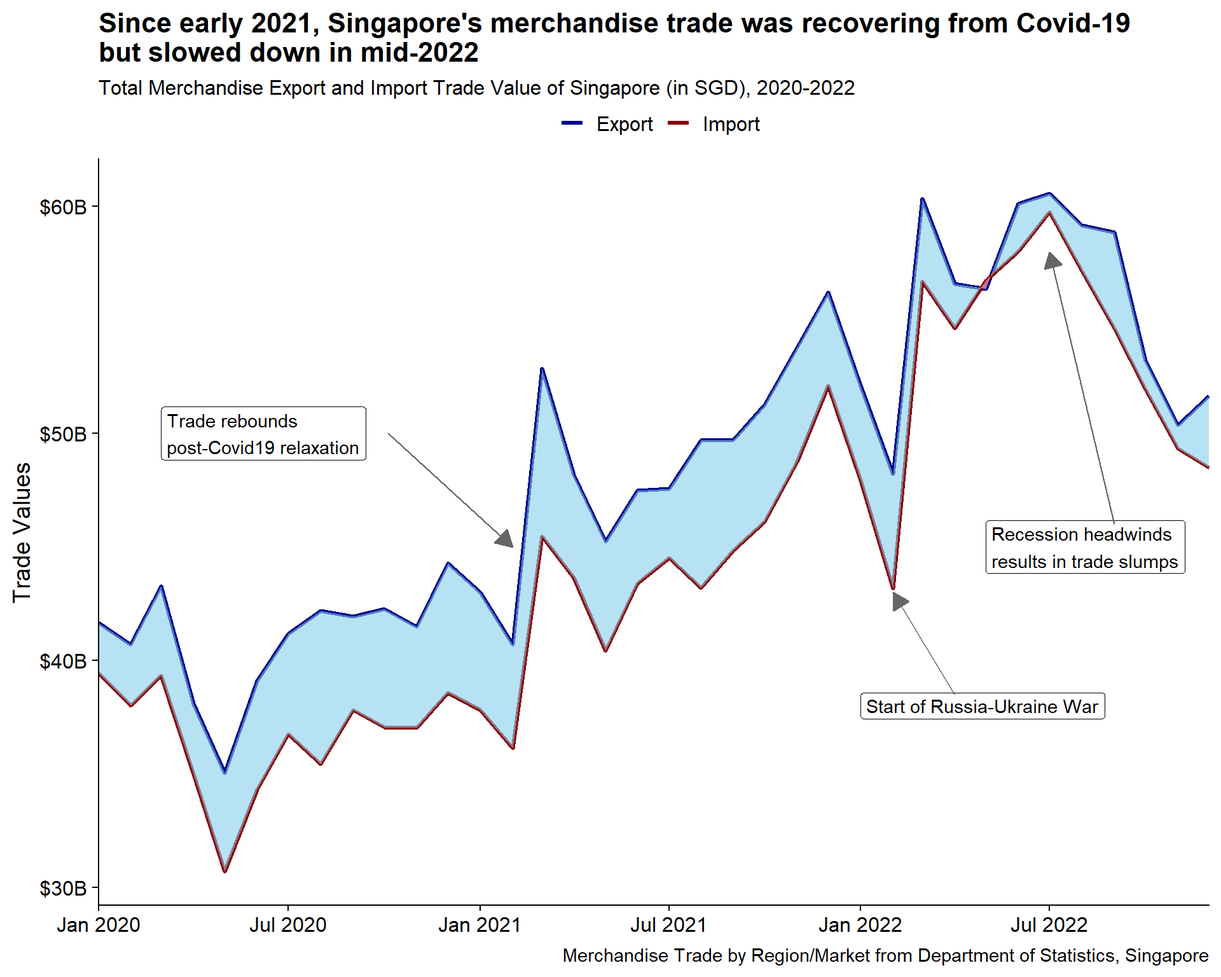
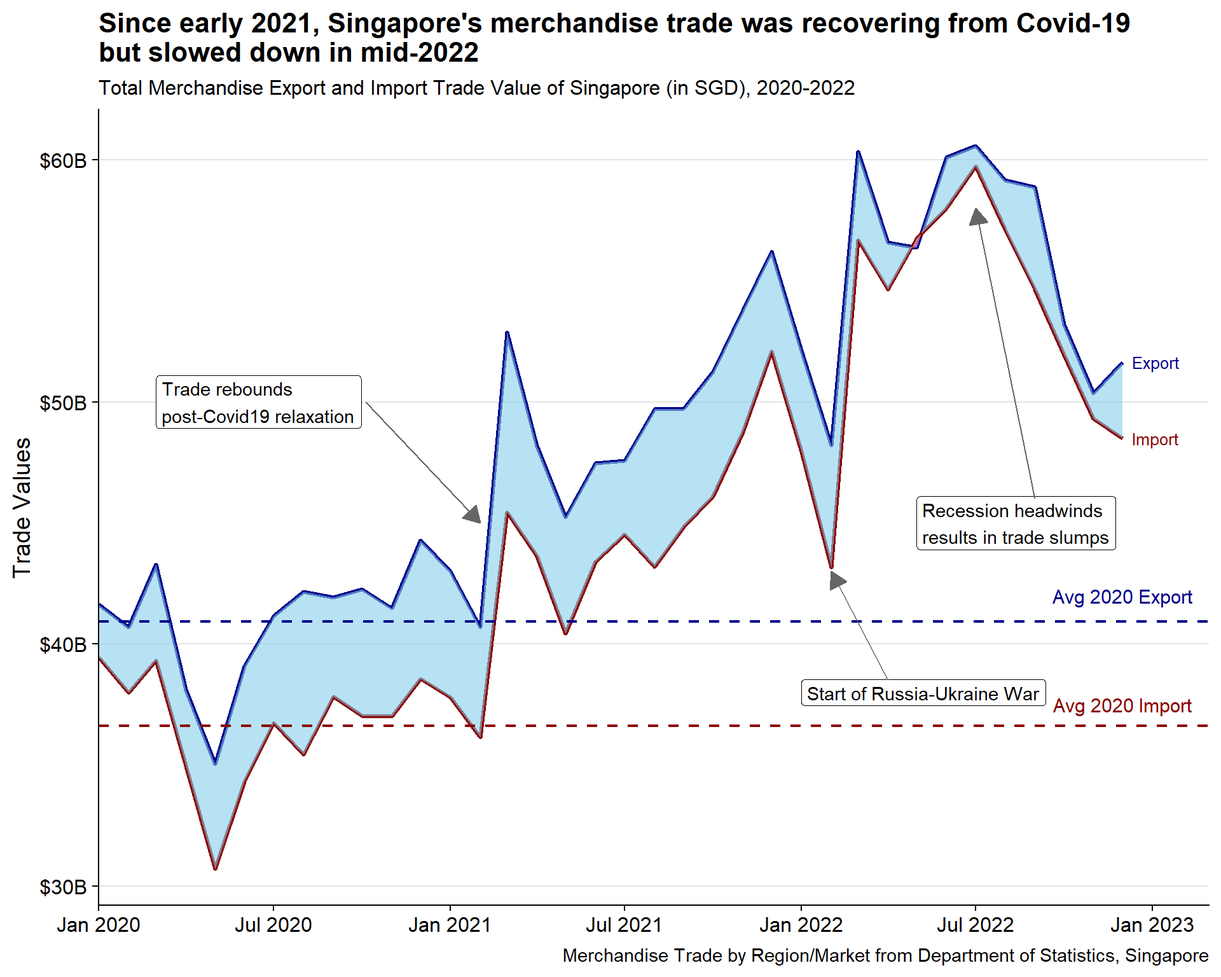
Commit after Take-home Exercise 4 draft 1

diff --git a/_site/Take-home_Ex/Take-home_Ex04/Take-home_Ex04.html b/_site/Take-home_Ex/Take-home_Ex04/Take-home_Ex04.html
@@ -367,13 +367,14 @@ code span.wa { color: #60a0b0; font-weight: bold; font-style: italic; } /* Warni
 <li><p><code>ggHoriPlot</code>:</p></li>
 <li><p><code>ggthemes</code>:</p></li>
 <li><p><code>plotly</code>: Used for creating interactive web-based graphs.</p></li>
+<li><p><code>directlabels</code>:</p></li>
 <li><p><code>ggbraid</code>: Used</p></li>
 <li><p><code>tidyverse</code>: A collection of core packages designed for data science, used extensively for data preparation and wrangling.</p>
 <p>All packages can be found within CRAN.</p></li>
 </ul>
 <div class="cell">
 <div class="sourceCode cell-code" id="cb1"><pre class="sourceCode r code-with-copy"><code class="sourceCode r"><span id="cb1-1"><a href="#cb1-1" aria-hidden="true" tabindex="-1"></a><span class="co">#Load packages</span></span>
-<span id="cb1-2"><a href="#cb1-2" aria-hidden="true" tabindex="-1"></a>pacman<span class="sc">::</span><span class="fu">p_load</span>(readxl, knitr, lubridate, ggHoriPlot, ggthemes, plotly, tidyverse)</span></code><button title="Copy to Clipboard" class="code-copy-button"><i class="bi"></i></button></pre></div>
+<span id="cb1-2"><a href="#cb1-2" aria-hidden="true" tabindex="-1"></a>pacman<span class="sc">::</span><span class="fu">p_load</span>(readxl, knitr, lubridate, ggHoriPlot, ggthemes, plotly, directlabels, tidyverse)</span></code><button title="Copy to Clipboard" class="code-copy-button"><i class="bi"></i></button></pre></div>
 </div>
 <div class="cell">
 <div class="sourceCode cell-code" id="cb2"><pre class="sourceCode r code-with-copy"><code class="sourceCode r"><span id="cb2-1"><a href="#cb2-1" aria-hidden="true" tabindex="-1"></a>remotes<span class="sc">::</span><span class="fu">install_github</span>(<span class="st">"nsgrantham/ggbraid"</span>)</span>
@@ -1509,108 +1510,157 @@ code span.wa { color: #60a0b0; font-weight: bold; font-style: italic; } /* Warni
 <details>
 <summary>Show the code</summary>
 <div class="sourceCode cell-code" id="cb16"><pre class="sourceCode r code-with-copy"><code class="sourceCode r"><span id="cb16-1"><a href="#cb16-1" aria-hidden="true" tabindex="-1"></a>totalsgtrade <span class="ot">&lt;-</span> sgtrade_cln <span class="sc">|&gt;</span> </span>
-<span id="cb16-2"><a href="#cb16-2" aria-hidden="true" tabindex="-1"></a>  <span class="fu">group_by</span>(Month_Year) <span class="sc">|&gt;</span> </span>
+<span id="cb16-2"><a href="#cb16-2" aria-hidden="true" tabindex="-1"></a>  <span class="fu">group_by</span>(Month_Year, Year) <span class="sc">|&gt;</span> </span>
 <span id="cb16-3"><a href="#cb16-3" aria-hidden="true" tabindex="-1"></a>  <span class="fu">summarise</span>(<span class="at">Import =</span> <span class="fu">sum</span>(Import_SGD),</span>
 <span id="cb16-4"><a href="#cb16-4" aria-hidden="true" tabindex="-1"></a>            <span class="at">Export =</span> <span class="fu">sum</span>(Export_SGD))</span>
 <span id="cb16-5"><a href="#cb16-5" aria-hidden="true" tabindex="-1"></a></span>
 <span id="cb16-6"><a href="#cb16-6" aria-hidden="true" tabindex="-1"></a>totalsgtrade_long <span class="ot">&lt;-</span> totalsgtrade <span class="sc">|&gt;</span> </span>
-<span id="cb16-7"><a href="#cb16-7" aria-hidden="true" tabindex="-1"></a>  <span class="fu">pivot_longer</span>(<span class="at">cols =</span> <span class="sc">!</span>Month_Year,</span>
+<span id="cb16-7"><a href="#cb16-7" aria-hidden="true" tabindex="-1"></a>  <span class="fu">pivot_longer</span>(<span class="at">cols =</span> <span class="sc">!</span><span class="fu">c</span>(Month_Year, Year),</span>
 <span id="cb16-8"><a href="#cb16-8" aria-hidden="true" tabindex="-1"></a>               <span class="at">names_to =</span> <span class="st">"Type"</span>,</span>
 <span id="cb16-9"><a href="#cb16-9" aria-hidden="true" tabindex="-1"></a>               <span class="at">values_to =</span> <span class="st">"Values"</span>)</span>
-<span id="cb16-10"><a href="#cb16-10" aria-hidden="true" tabindex="-1"></a>  </span>
-<span id="cb16-11"><a href="#cb16-11" aria-hidden="true" tabindex="-1"></a><span class="fu">ggplot</span>() <span class="sc">+</span></span>
-<span id="cb16-12"><a href="#cb16-12" aria-hidden="true" tabindex="-1"></a>  <span class="fu">geom_line</span>(<span class="at">data =</span> totalsgtrade_long,</span>
-<span id="cb16-13"><a href="#cb16-13" aria-hidden="true" tabindex="-1"></a>            <span class="fu">aes</span>(<span class="at">x =</span> Month_Year,</span>
-<span id="cb16-14"><a href="#cb16-14" aria-hidden="true" tabindex="-1"></a>                <span class="at">y =</span> Values,</span>
-<span id="cb16-15"><a href="#cb16-15" aria-hidden="true" tabindex="-1"></a>                <span class="at">color =</span> Type),</span>
-<span id="cb16-16"><a href="#cb16-16" aria-hidden="true" tabindex="-1"></a>            <span class="at">size =</span> <span class="fl">1.2</span>) <span class="sc">+</span></span>
+<span id="cb16-10"><a href="#cb16-10" aria-hidden="true" tabindex="-1"></a></span>
+<span id="cb16-11"><a href="#cb16-11" aria-hidden="true" tabindex="-1"></a>avg_total_2020 <span class="ot">&lt;-</span> totalsgtrade <span class="sc">|&gt;</span> </span>
+<span id="cb16-12"><a href="#cb16-12" aria-hidden="true" tabindex="-1"></a>  <span class="fu">filter</span>(Year <span class="sc">==</span> <span class="dv">2020</span>) <span class="sc">|&gt;</span> </span>
+<span id="cb16-13"><a href="#cb16-13" aria-hidden="true" tabindex="-1"></a>  <span class="fu">group_by</span> (Year) <span class="sc">|&gt;</span> </span>
+<span id="cb16-14"><a href="#cb16-14" aria-hidden="true" tabindex="-1"></a>  <span class="fu">summarise</span>(<span class="at">import =</span> <span class="fu">mean</span>(Import),</span>
+<span id="cb16-15"><a href="#cb16-15" aria-hidden="true" tabindex="-1"></a>            <span class="at">export =</span> <span class="fu">mean</span>(Export))</span>
+<span id="cb16-16"><a href="#cb16-16" aria-hidden="true" tabindex="-1"></a></span>
 <span id="cb16-17"><a href="#cb16-17" aria-hidden="true" tabindex="-1"></a>  </span>
-<span id="cb16-18"><a href="#cb16-18" aria-hidden="true" tabindex="-1"></a>  <span class="fu">geom_braid</span>(<span class="at">data =</span> totalsgtrade,</span>
-<span id="cb16-19"><a href="#cb16-19" aria-hidden="true" tabindex="-1"></a>             <span class="fu">aes</span>(<span class="at">x =</span> Month_Year,</span>
-<span id="cb16-20"><a href="#cb16-20" aria-hidden="true" tabindex="-1"></a>                 <span class="at">ymin =</span> Import,</span>
-<span id="cb16-21"><a href="#cb16-21" aria-hidden="true" tabindex="-1"></a>                 <span class="at">ymax =</span> Export,</span>
-<span id="cb16-22"><a href="#cb16-22" aria-hidden="true" tabindex="-1"></a>                 <span class="at">fill =</span> Import <span class="sc">&lt;</span> Export),</span>
-<span id="cb16-23"><a href="#cb16-23" aria-hidden="true" tabindex="-1"></a>             <span class="at">alpha =</span> <span class="fl">0.6</span>) <span class="sc">+</span></span>
-<span id="cb16-24"><a href="#cb16-24" aria-hidden="true" tabindex="-1"></a>  </span>
-<span id="cb16-25"><a href="#cb16-25" aria-hidden="true" tabindex="-1"></a>  <span class="fu">guides</span>(<span class="at">linetype =</span> <span class="st">"none"</span>, <span class="at">fill =</span> <span class="st">"none"</span>) <span class="sc">+</span></span>
-<span id="cb16-26"><a href="#cb16-26" aria-hidden="true" tabindex="-1"></a>  </span>
-<span id="cb16-27"><a href="#cb16-27" aria-hidden="true" tabindex="-1"></a>  <span class="fu">scale_color_manual</span>(<span class="at">values =</span> <span class="fu">c</span>(<span class="st">"darkblue"</span>, <span class="st">"darkred"</span>),</span>
-<span id="cb16-28"><a href="#cb16-28" aria-hidden="true" tabindex="-1"></a>                     <span class="at">labels =</span> <span class="fu">c</span>(<span class="st">"Export"</span>, <span class="st">"Import"</span>),</span>
-<span id="cb16-29"><a href="#cb16-29" aria-hidden="true" tabindex="-1"></a>                     <span class="at">name =</span> <span class="cn">NULL</span>) <span class="sc">+</span></span>
-<span id="cb16-30"><a href="#cb16-30" aria-hidden="true" tabindex="-1"></a>  </span>
-<span id="cb16-31"><a href="#cb16-31" aria-hidden="true" tabindex="-1"></a>  <span class="fu">scale_fill_manual</span>(<span class="at">values =</span> <span class="fu">c</span>(<span class="st">"pink"</span>, <span class="st">"skyblue"</span>)) <span class="sc">+</span></span>
+<span id="cb16-18"><a href="#cb16-18" aria-hidden="true" tabindex="-1"></a><span class="fu">ggplot</span>() <span class="sc">+</span></span>
+<span id="cb16-19"><a href="#cb16-19" aria-hidden="true" tabindex="-1"></a>  <span class="fu">geom_line</span>(<span class="at">data =</span> totalsgtrade_long,</span>
+<span id="cb16-20"><a href="#cb16-20" aria-hidden="true" tabindex="-1"></a>            <span class="fu">aes</span>(<span class="at">x =</span> Month_Year,</span>
+<span id="cb16-21"><a href="#cb16-21" aria-hidden="true" tabindex="-1"></a>                <span class="at">y =</span> Values,</span>
+<span id="cb16-22"><a href="#cb16-22" aria-hidden="true" tabindex="-1"></a>                <span class="at">group =</span> Type,</span>
+<span id="cb16-23"><a href="#cb16-23" aria-hidden="true" tabindex="-1"></a>                <span class="at">color =</span> Type),</span>
+<span id="cb16-24"><a href="#cb16-24" aria-hidden="true" tabindex="-1"></a>            <span class="at">linewidth =</span> <span class="fl">1.2</span>) <span class="sc">+</span></span>
+<span id="cb16-25"><a href="#cb16-25" aria-hidden="true" tabindex="-1"></a>  </span>
+<span id="cb16-26"><a href="#cb16-26" aria-hidden="true" tabindex="-1"></a>  <span class="fu">geom_braid</span>(<span class="at">data =</span> totalsgtrade,</span>
+<span id="cb16-27"><a href="#cb16-27" aria-hidden="true" tabindex="-1"></a>             <span class="fu">aes</span>(<span class="at">x =</span> Month_Year,</span>
+<span id="cb16-28"><a href="#cb16-28" aria-hidden="true" tabindex="-1"></a>                 <span class="at">ymin =</span> Import,</span>
+<span id="cb16-29"><a href="#cb16-29" aria-hidden="true" tabindex="-1"></a>                 <span class="at">ymax =</span> Export,</span>
+<span id="cb16-30"><a href="#cb16-30" aria-hidden="true" tabindex="-1"></a>                 <span class="at">fill =</span> Import <span class="sc">&lt;</span> Export),</span>
+<span id="cb16-31"><a href="#cb16-31" aria-hidden="true" tabindex="-1"></a>             <span class="at">alpha =</span> <span class="fl">0.6</span>) <span class="sc">+</span></span>
 <span id="cb16-32"><a href="#cb16-32" aria-hidden="true" tabindex="-1"></a>  </span>
-<span id="cb16-33"><a href="#cb16-33" aria-hidden="true" tabindex="-1"></a>  <span class="fu">scale_x_date</span>(<span class="at">expand=</span><span class="fu">c</span>(<span class="dv">0</span>,<span class="dv">0</span>), </span>
-<span id="cb16-34"><a href="#cb16-34" aria-hidden="true" tabindex="-1"></a>               <span class="at">date_breaks =</span> <span class="st">"6 month"</span>,</span>
-<span id="cb16-35"><a href="#cb16-35" aria-hidden="true" tabindex="-1"></a>               <span class="at">date_labels =</span> <span class="st">"%b %Y"</span>) <span class="sc">+</span></span>
-<span id="cb16-36"><a href="#cb16-36" aria-hidden="true" tabindex="-1"></a>  </span>
-<span id="cb16-37"><a href="#cb16-37" aria-hidden="true" tabindex="-1"></a>  <span class="fu">scale_y_continuous</span>(<span class="st">"Trade Values"</span>,</span>
-<span id="cb16-38"><a href="#cb16-38" aria-hidden="true" tabindex="-1"></a>                     <span class="at">labels =</span> <span class="cf">function</span>(x){<span class="fu">paste0</span>(<span class="st">'$'</span>, <span class="fu">abs</span>(x<span class="sc">/</span><span class="dv">1000000000</span>),<span class="st">'B'</span>)}) <span class="sc">+</span></span>
-<span id="cb16-39"><a href="#cb16-39" aria-hidden="true" tabindex="-1"></a>  </span>
-<span id="cb16-40"><a href="#cb16-40" aria-hidden="true" tabindex="-1"></a>  cowplot<span class="sc">::</span><span class="fu">theme_cowplot</span>() <span class="sc">+</span></span>
+<span id="cb16-33"><a href="#cb16-33" aria-hidden="true" tabindex="-1"></a>  <span class="fu">guides</span>(<span class="at">linetype =</span> <span class="st">"none"</span>, <span class="at">fill =</span> <span class="st">"none"</span>) <span class="sc">+</span></span>
+<span id="cb16-34"><a href="#cb16-34" aria-hidden="true" tabindex="-1"></a>  </span>
+<span id="cb16-35"><a href="#cb16-35" aria-hidden="true" tabindex="-1"></a>  <span class="fu">geom_dl</span>(<span class="at">data =</span> totalsgtrade_long,</span>
+<span id="cb16-36"><a href="#cb16-36" aria-hidden="true" tabindex="-1"></a>          <span class="fu">aes</span>(<span class="at">x =</span> Month_Year,</span>
+<span id="cb16-37"><a href="#cb16-37" aria-hidden="true" tabindex="-1"></a>              <span class="at">y =</span> Values,</span>
+<span id="cb16-38"><a href="#cb16-38" aria-hidden="true" tabindex="-1"></a>              <span class="at">label =</span> Type,</span>
+<span id="cb16-39"><a href="#cb16-39" aria-hidden="true" tabindex="-1"></a>              <span class="at">color =</span> Type),</span>
+<span id="cb16-40"><a href="#cb16-40" aria-hidden="true" tabindex="-1"></a>          <span class="at">method =</span> <span class="fu">list</span>(<span class="fu">dl.trans</span>(<span class="at">x =</span> x <span class="sc">+</span> <span class="fl">0.2</span>), <span class="st">"last.points"</span>, <span class="at">cex =</span> <span class="fl">0.8</span>)) <span class="sc">+</span></span>
 <span id="cb16-41"><a href="#cb16-41" aria-hidden="true" tabindex="-1"></a>  </span>
-<span id="cb16-42"><a href="#cb16-42" aria-hidden="true" tabindex="-1"></a>  <span class="fu">theme</span>(<span class="at">axis.title.x =</span> <span class="fu">element_blank</span>(),</span>
-<span id="cb16-43"><a href="#cb16-43" aria-hidden="true" tabindex="-1"></a>        <span class="at">legend.position =</span> <span class="st">'top'</span>,</span>
-<span id="cb16-44"><a href="#cb16-44" aria-hidden="true" tabindex="-1"></a>        <span class="at">legend.justification =</span> <span class="st">'center'</span>) <span class="sc">+</span></span>
-<span id="cb16-45"><a href="#cb16-45" aria-hidden="true" tabindex="-1"></a>  </span>
-<span id="cb16-46"><a href="#cb16-46" aria-hidden="true" tabindex="-1"></a>  <span class="fu">annotate</span>(<span class="at">geom =</span> <span class="st">"label"</span>,</span>
-<span id="cb16-47"><a href="#cb16-47" aria-hidden="true" tabindex="-1"></a>           <span class="at">x =</span> <span class="fu">as.Date</span>(<span class="st">"2020-03-01"</span>),</span>
-<span id="cb16-48"><a href="#cb16-48" aria-hidden="true" tabindex="-1"></a>           <span class="at">y =</span> <span class="dv">50000000000</span>,</span>
-<span id="cb16-49"><a href="#cb16-49" aria-hidden="true" tabindex="-1"></a>           <span class="at">label =</span> <span class="st">"Trade rebounds</span><span class="sc">\n</span><span class="st">post-Covid19 relaxation"</span>,</span>
-<span id="cb16-50"><a href="#cb16-50" aria-hidden="true" tabindex="-1"></a>           <span class="at">hjust =</span> <span class="st">"left"</span>,</span>
-<span id="cb16-51"><a href="#cb16-51" aria-hidden="true" tabindex="-1"></a>           <span class="at">color =</span> <span class="st">"black"</span></span>
-<span id="cb16-52"><a href="#cb16-52" aria-hidden="true" tabindex="-1"></a>           ) <span class="sc">+</span></span>
+<span id="cb16-42"><a href="#cb16-42" aria-hidden="true" tabindex="-1"></a>  <span class="fu">geom_dl</span>(<span class="at">data =</span> totalsgtrade_long,</span>
+<span id="cb16-43"><a href="#cb16-43" aria-hidden="true" tabindex="-1"></a>          <span class="fu">aes</span>(<span class="at">x =</span> Month_Year,</span>
+<span id="cb16-44"><a href="#cb16-44" aria-hidden="true" tabindex="-1"></a>              <span class="at">y =</span> Values,</span>
+<span id="cb16-45"><a href="#cb16-45" aria-hidden="true" tabindex="-1"></a>              <span class="at">label =</span> Type,</span>
+<span id="cb16-46"><a href="#cb16-46" aria-hidden="true" tabindex="-1"></a>              <span class="at">color =</span> Type),</span>
+<span id="cb16-47"><a href="#cb16-47" aria-hidden="true" tabindex="-1"></a>          <span class="at">method =</span> <span class="fu">list</span>(<span class="fu">dl.trans</span>(<span class="at">x =</span> x <span class="sc">-</span> <span class="fl">0.2</span>), <span class="st">"first.points"</span>, <span class="at">cex =</span> <span class="fl">0.8</span>)) <span class="sc">+</span></span>
+<span id="cb16-48"><a href="#cb16-48" aria-hidden="true" tabindex="-1"></a>  </span>
+<span id="cb16-49"><a href="#cb16-49" aria-hidden="true" tabindex="-1"></a>  <span class="fu">geom_hline</span>(<span class="fu">aes</span>(<span class="at">yintercept =</span> avg_total_2020<span class="sc">$</span>export), </span>
+<span id="cb16-50"><a href="#cb16-50" aria-hidden="true" tabindex="-1"></a>             <span class="at">col=</span><span class="st">"darkblue"</span>, </span>
+<span id="cb16-51"><a href="#cb16-51" aria-hidden="true" tabindex="-1"></a>             <span class="at">linewidth=</span><span class="fl">0.8</span>,</span>
+<span id="cb16-52"><a href="#cb16-52" aria-hidden="true" tabindex="-1"></a>             <span class="at">linetype =</span> <span class="st">"dashed"</span>) <span class="sc">+</span></span>
 <span id="cb16-53"><a href="#cb16-53" aria-hidden="true" tabindex="-1"></a>  </span>
-<span id="cb16-54"><a href="#cb16-54" aria-hidden="true" tabindex="-1"></a>  <span class="fu">annotate</span>(<span class="at">geom =</span> <span class="st">"segment"</span>,</span>
-<span id="cb16-55"><a href="#cb16-55" aria-hidden="true" tabindex="-1"></a>           <span class="at">x =</span> <span class="fu">as.Date</span>(<span class="st">"2020-10-05"</span>), </span>
-<span id="cb16-56"><a href="#cb16-56" aria-hidden="true" tabindex="-1"></a>           <span class="at">y =</span> <span class="dv">50000000000</span>, </span>
-<span id="cb16-57"><a href="#cb16-57" aria-hidden="true" tabindex="-1"></a>           <span class="at">xend =</span> <span class="fu">as.Date</span>(<span class="st">"2021-02-01"</span>),  </span>
-<span id="cb16-58"><a href="#cb16-58" aria-hidden="true" tabindex="-1"></a>           <span class="at">yend =</span> <span class="dv">45000000000</span>,  </span>
-<span id="cb16-59"><a href="#cb16-59" aria-hidden="true" tabindex="-1"></a>           <span class="at">color =</span> <span class="st">"grey40"</span>,</span>
-<span id="cb16-60"><a href="#cb16-60" aria-hidden="true" tabindex="-1"></a>           <span class="at">arrow =</span> <span class="fu">arrow</span>(<span class="at">type =</span> <span class="st">"closed"</span>,</span>
-<span id="cb16-61"><a href="#cb16-61" aria-hidden="true" tabindex="-1"></a>                         <span class="at">length =</span> <span class="fu">unit</span>(<span class="fl">0.15</span>, <span class="st">"inches"</span>))</span>
-<span id="cb16-62"><a href="#cb16-62" aria-hidden="true" tabindex="-1"></a>           ) <span class="sc">+</span></span>
-<span id="cb16-63"><a href="#cb16-63" aria-hidden="true" tabindex="-1"></a>  </span>
-<span id="cb16-64"><a href="#cb16-64" aria-hidden="true" tabindex="-1"></a>  <span class="fu">annotate</span>(<span class="at">geom =</span> <span class="st">"label"</span>,</span>
-<span id="cb16-65"><a href="#cb16-65" aria-hidden="true" tabindex="-1"></a>           <span class="at">x =</span> <span class="fu">as.Date</span>(<span class="st">"2022-01-01"</span>),</span>
-<span id="cb16-66"><a href="#cb16-66" aria-hidden="true" tabindex="-1"></a>           <span class="at">y =</span> <span class="dv">38000000000</span>,</span>
-<span id="cb16-67"><a href="#cb16-67" aria-hidden="true" tabindex="-1"></a>           <span class="at">label =</span> <span class="st">"Start of Russia-Ukraine War"</span>,</span>
-<span id="cb16-68"><a href="#cb16-68" aria-hidden="true" tabindex="-1"></a>           <span class="at">hjust =</span> <span class="st">"left"</span>,</span>
-<span id="cb16-69"><a href="#cb16-69" aria-hidden="true" tabindex="-1"></a>           <span class="at">color =</span> <span class="st">"black"</span></span>
-<span id="cb16-70"><a href="#cb16-70" aria-hidden="true" tabindex="-1"></a>           ) <span class="sc">+</span></span>
-<span id="cb16-71"><a href="#cb16-71" aria-hidden="true" tabindex="-1"></a>  </span>
-<span id="cb16-72"><a href="#cb16-72" aria-hidden="true" tabindex="-1"></a>  <span class="fu">annotate</span>(<span class="at">geom =</span> <span class="st">"segment"</span>,</span>
-<span id="cb16-73"><a href="#cb16-73" aria-hidden="true" tabindex="-1"></a>           <span class="at">x =</span> <span class="fu">as.Date</span>(<span class="st">"2022-04-01"</span>), </span>
-<span id="cb16-74"><a href="#cb16-74" aria-hidden="true" tabindex="-1"></a>           <span class="at">y =</span> <span class="dv">38500000000</span>, </span>
-<span id="cb16-75"><a href="#cb16-75" aria-hidden="true" tabindex="-1"></a>           <span class="at">xend =</span> <span class="fu">as.Date</span>(<span class="st">"2022-02-01"</span>),  </span>
-<span id="cb16-76"><a href="#cb16-76" aria-hidden="true" tabindex="-1"></a>           <span class="at">yend =</span> <span class="dv">43000000000</span>,  </span>
-<span id="cb16-77"><a href="#cb16-77" aria-hidden="true" tabindex="-1"></a>           <span class="at">color =</span> <span class="st">"grey40"</span>,</span>
-<span id="cb16-78"><a href="#cb16-78" aria-hidden="true" tabindex="-1"></a>           <span class="at">arrow =</span> <span class="fu">arrow</span>(<span class="at">type =</span> <span class="st">"closed"</span>,</span>
-<span id="cb16-79"><a href="#cb16-79" aria-hidden="true" tabindex="-1"></a>                         <span class="at">length =</span> <span class="fu">unit</span>(<span class="fl">0.15</span>, <span class="st">"inches"</span>))</span>
-<span id="cb16-80"><a href="#cb16-80" aria-hidden="true" tabindex="-1"></a>           ) <span class="sc">+</span></span>
-<span id="cb16-81"><a href="#cb16-81" aria-hidden="true" tabindex="-1"></a>  </span>
-<span id="cb16-82"><a href="#cb16-82" aria-hidden="true" tabindex="-1"></a>  <span class="fu">annotate</span>(<span class="at">geom =</span> <span class="st">"label"</span>,</span>
-<span id="cb16-83"><a href="#cb16-83" aria-hidden="true" tabindex="-1"></a>           <span class="at">x =</span> <span class="fu">as.Date</span>(<span class="st">"2022-05-01"</span>),</span>
-<span id="cb16-84"><a href="#cb16-84" aria-hidden="true" tabindex="-1"></a>           <span class="at">y =</span> <span class="dv">45000000000</span>,</span>
-<span id="cb16-85"><a href="#cb16-85" aria-hidden="true" tabindex="-1"></a>           <span class="at">label =</span> <span class="st">"Recession headwinds</span><span class="sc">\n</span><span class="st">results in trade slumps"</span>,</span>
-<span id="cb16-86"><a href="#cb16-86" aria-hidden="true" tabindex="-1"></a>           <span class="at">hjust =</span> <span class="st">"left"</span>,</span>
-<span id="cb16-87"><a href="#cb16-87" aria-hidden="true" tabindex="-1"></a>           <span class="at">color =</span> <span class="st">"black"</span></span>
-<span id="cb16-88"><a href="#cb16-88" aria-hidden="true" tabindex="-1"></a>           ) <span class="sc">+</span></span>
+<span id="cb16-54"><a href="#cb16-54" aria-hidden="true" tabindex="-1"></a>  <span class="fu">annotate</span>(<span class="at">geom =</span> <span class="st">"text"</span>, </span>
+<span id="cb16-55"><a href="#cb16-55" aria-hidden="true" tabindex="-1"></a>           <span class="at">x=</span><span class="fu">as.Date</span>(<span class="st">"2022-12-01"</span>), </span>
+<span id="cb16-56"><a href="#cb16-56" aria-hidden="true" tabindex="-1"></a>           <span class="at">y=</span><span class="dv">42000000000</span>, </span>
+<span id="cb16-57"><a href="#cb16-57" aria-hidden="true" tabindex="-1"></a>           <span class="at">label=</span><span class="st">"Avg 2020 Export"</span>, </span>
+<span id="cb16-58"><a href="#cb16-58" aria-hidden="true" tabindex="-1"></a>           <span class="at">size=</span><span class="dv">4</span>, </span>
+<span id="cb16-59"><a href="#cb16-59" aria-hidden="true" tabindex="-1"></a>           <span class="at">color=</span><span class="st">"darkblue"</span>) <span class="sc">+</span></span>
+<span id="cb16-60"><a href="#cb16-60" aria-hidden="true" tabindex="-1"></a>  </span>
+<span id="cb16-61"><a href="#cb16-61" aria-hidden="true" tabindex="-1"></a>  <span class="fu">annotate</span>(<span class="at">geom =</span> <span class="st">"text"</span>, </span>
+<span id="cb16-62"><a href="#cb16-62" aria-hidden="true" tabindex="-1"></a>           <span class="at">x=</span><span class="fu">as.Date</span>(<span class="st">"2022-12-01"</span>), </span>
+<span id="cb16-63"><a href="#cb16-63" aria-hidden="true" tabindex="-1"></a>           <span class="at">y=</span><span class="dv">37500000000</span>, </span>
+<span id="cb16-64"><a href="#cb16-64" aria-hidden="true" tabindex="-1"></a>           <span class="at">label=</span><span class="st">"Avg 2020 Import"</span>, </span>
+<span id="cb16-65"><a href="#cb16-65" aria-hidden="true" tabindex="-1"></a>           <span class="at">size=</span><span class="dv">4</span>, </span>
+<span id="cb16-66"><a href="#cb16-66" aria-hidden="true" tabindex="-1"></a>           <span class="at">color=</span><span class="st">"darkred"</span>) <span class="sc">+</span></span>
+<span id="cb16-67"><a href="#cb16-67" aria-hidden="true" tabindex="-1"></a>  </span>
+<span id="cb16-68"><a href="#cb16-68" aria-hidden="true" tabindex="-1"></a>  <span class="fu">geom_hline</span>(<span class="fu">aes</span>(<span class="at">yintercept =</span> avg_total_2020<span class="sc">$</span>import), </span>
+<span id="cb16-69"><a href="#cb16-69" aria-hidden="true" tabindex="-1"></a>             <span class="at">col=</span><span class="st">"darkred"</span>, </span>
+<span id="cb16-70"><a href="#cb16-70" aria-hidden="true" tabindex="-1"></a>             <span class="at">linewidth=</span><span class="fl">0.8</span>,</span>
+<span id="cb16-71"><a href="#cb16-71" aria-hidden="true" tabindex="-1"></a>             <span class="at">linetype =</span> <span class="st">"dashed"</span>) <span class="sc">+</span></span>
+<span id="cb16-72"><a href="#cb16-72" aria-hidden="true" tabindex="-1"></a>  </span>
+<span id="cb16-73"><a href="#cb16-73" aria-hidden="true" tabindex="-1"></a>  <span class="fu">scale_color_manual</span>(<span class="at">values =</span> <span class="fu">c</span>(<span class="st">"darkblue"</span>, <span class="st">"darkred"</span>),</span>
+<span id="cb16-74"><a href="#cb16-74" aria-hidden="true" tabindex="-1"></a>                     <span class="at">labels =</span> <span class="fu">c</span>(<span class="st">"Export"</span>, <span class="st">"Import"</span>),</span>
+<span id="cb16-75"><a href="#cb16-75" aria-hidden="true" tabindex="-1"></a>                     <span class="at">name =</span> <span class="cn">NULL</span>,</span>
+<span id="cb16-76"><a href="#cb16-76" aria-hidden="true" tabindex="-1"></a>                     <span class="at">guide =</span> <span class="st">"none"</span>) <span class="sc">+</span></span>
+<span id="cb16-77"><a href="#cb16-77" aria-hidden="true" tabindex="-1"></a>  </span>
+<span id="cb16-78"><a href="#cb16-78" aria-hidden="true" tabindex="-1"></a>  <span class="fu">scale_fill_manual</span>(<span class="at">values =</span> <span class="fu">c</span>(<span class="st">"pink"</span>, <span class="st">"skyblue"</span>)) <span class="sc">+</span></span>
+<span id="cb16-79"><a href="#cb16-79" aria-hidden="true" tabindex="-1"></a>  </span>
+<span id="cb16-80"><a href="#cb16-80" aria-hidden="true" tabindex="-1"></a>  <span class="fu">scale_x_date</span>(<span class="at">expand =</span> <span class="fu">c</span>(<span class="dv">0</span>,<span class="dv">0</span>),</span>
+<span id="cb16-81"><a href="#cb16-81" aria-hidden="true" tabindex="-1"></a>               <span class="at">limits =</span> <span class="fu">c</span>(<span class="fu">as.Date</span>(<span class="st">"2020-01-01"</span>),<span class="fu">as.Date</span>(<span class="st">"2023-03-01"</span>)),</span>
+<span id="cb16-82"><a href="#cb16-82" aria-hidden="true" tabindex="-1"></a>               <span class="at">date_breaks =</span> <span class="st">"6 month"</span>,</span>
+<span id="cb16-83"><a href="#cb16-83" aria-hidden="true" tabindex="-1"></a>               <span class="at">date_labels =</span> <span class="st">"%b %Y"</span>) <span class="sc">+</span></span>
+<span id="cb16-84"><a href="#cb16-84" aria-hidden="true" tabindex="-1"></a>  </span>
+<span id="cb16-85"><a href="#cb16-85" aria-hidden="true" tabindex="-1"></a>  <span class="fu">scale_y_continuous</span>(<span class="st">"Trade Values"</span>,</span>
+<span id="cb16-86"><a href="#cb16-86" aria-hidden="true" tabindex="-1"></a>                     <span class="at">labels =</span> <span class="cf">function</span>(x){<span class="fu">paste0</span>(<span class="st">'$'</span>, <span class="fu">abs</span>(x<span class="sc">/</span><span class="dv">1000000000</span>),<span class="st">'B'</span>)}) <span class="sc">+</span></span>
+<span id="cb16-87"><a href="#cb16-87" aria-hidden="true" tabindex="-1"></a>  </span>
+<span id="cb16-88"><a href="#cb16-88" aria-hidden="true" tabindex="-1"></a>  cowplot<span class="sc">::</span><span class="fu">theme_cowplot</span>() <span class="sc">+</span></span>
 <span id="cb16-89"><a href="#cb16-89" aria-hidden="true" tabindex="-1"></a>  </span>
-<span id="cb16-90"><a href="#cb16-90" aria-hidden="true" tabindex="-1"></a>  <span class="fu">annotate</span>(<span class="at">geom =</span> <span class="st">"segment"</span>,</span>
-<span id="cb16-91"><a href="#cb16-91" aria-hidden="true" tabindex="-1"></a>           <span class="at">x =</span> <span class="fu">as.Date</span>(<span class="st">"2022-09-01"</span>), </span>
-<span id="cb16-92"><a href="#cb16-92" aria-hidden="true" tabindex="-1"></a>           <span class="at">y =</span> <span class="dv">46000000000</span>, </span>
-<span id="cb16-93"><a href="#cb16-93" aria-hidden="true" tabindex="-1"></a>           <span class="at">xend =</span> <span class="fu">as.Date</span>(<span class="st">"2022-07-01"</span>),  </span>
-<span id="cb16-94"><a href="#cb16-94" aria-hidden="true" tabindex="-1"></a>           <span class="at">yend =</span> <span class="dv">58000000000</span>,  </span>
-<span id="cb16-95"><a href="#cb16-95" aria-hidden="true" tabindex="-1"></a>           <span class="at">color =</span> <span class="st">"grey40"</span>,</span>
-<span id="cb16-96"><a href="#cb16-96" aria-hidden="true" tabindex="-1"></a>           <span class="at">arrow =</span> <span class="fu">arrow</span>(<span class="at">type =</span> <span class="st">"closed"</span>,</span>
-<span id="cb16-97"><a href="#cb16-97" aria-hidden="true" tabindex="-1"></a>                         <span class="at">length =</span> <span class="fu">unit</span>(<span class="fl">0.15</span>, <span class="st">"inches"</span>))</span>
-<span id="cb16-98"><a href="#cb16-98" aria-hidden="true" tabindex="-1"></a>           ) <span class="sc">+</span></span>
-<span id="cb16-99"><a href="#cb16-99" aria-hidden="true" tabindex="-1"></a>  </span>
-<span id="cb16-100"><a href="#cb16-100" aria-hidden="true" tabindex="-1"></a>  </span>
-<span id="cb16-101"><a href="#cb16-101" aria-hidden="true" tabindex="-1"></a>  <span class="fu">labs</span>(<span class="at">title =</span> <span class="st">"Since early 2021, Singapore's merchandise trade was recovering from Covid-19</span><span class="sc">\n</span><span class="st">but slowed down in mid-2022"</span>,</span>
-<span id="cb16-102"><a href="#cb16-102" aria-hidden="true" tabindex="-1"></a>         <span class="at">subtitle =</span> <span class="st">"Total Merchandise Export and Import Trade Value of Singapore (in SGD), 2020-2022"</span>,</span>
-<span id="cb16-103"><a href="#cb16-103" aria-hidden="true" tabindex="-1"></a>         <span class="at">caption =</span> <span class="st">"Merchandise Trade by Region/Market from Department of Statistics, Singapore"</span>) </span></code><button title="Copy to Clipboard" class="code-copy-button"><i class="bi"></i></button></pre></div>
+<span id="cb16-90"><a href="#cb16-90" aria-hidden="true" tabindex="-1"></a>  <span class="fu">theme</span>(<span class="at">axis.title.x =</span> <span class="fu">element_blank</span>(),</span>
+<span id="cb16-91"><a href="#cb16-91" aria-hidden="true" tabindex="-1"></a>        <span class="at">legend.position =</span> <span class="st">'top'</span>,</span>
+<span id="cb16-92"><a href="#cb16-92" aria-hidden="true" tabindex="-1"></a>        <span class="at">legend.justification =</span> <span class="st">'center'</span>,</span>
+<span id="cb16-93"><a href="#cb16-93" aria-hidden="true" tabindex="-1"></a>        <span class="at">panel.grid.major.y =</span> <span class="fu">element_line</span>(<span class="at">color =</span> <span class="st">"grey90"</span>, <span class="at">linetype =</span> <span class="st">"solid"</span>)) <span class="sc">+</span></span>
+<span id="cb16-94"><a href="#cb16-94" aria-hidden="true" tabindex="-1"></a>  </span>
+<span id="cb16-95"><a href="#cb16-95" aria-hidden="true" tabindex="-1"></a>  <span class="fu">annotate</span>(<span class="at">geom =</span> <span class="st">"label"</span>,</span>
+<span id="cb16-96"><a href="#cb16-96" aria-hidden="true" tabindex="-1"></a>           <span class="at">x =</span> <span class="fu">as.Date</span>(<span class="st">"2020-03-01"</span>),</span>
+<span id="cb16-97"><a href="#cb16-97" aria-hidden="true" tabindex="-1"></a>           <span class="at">y =</span> <span class="dv">50000000000</span>,</span>
+<span id="cb16-98"><a href="#cb16-98" aria-hidden="true" tabindex="-1"></a>           <span class="at">label =</span> <span class="st">"Trade rebounds</span><span class="sc">\n</span><span class="st">post-Covid19 relaxation"</span>,</span>
+<span id="cb16-99"><a href="#cb16-99" aria-hidden="true" tabindex="-1"></a>           <span class="at">hjust =</span> <span class="st">"left"</span>,</span>
+<span id="cb16-100"><a href="#cb16-100" aria-hidden="true" tabindex="-1"></a>           <span class="at">color =</span> <span class="st">"black"</span></span>
+<span id="cb16-101"><a href="#cb16-101" aria-hidden="true" tabindex="-1"></a>           ) <span class="sc">+</span></span>
+<span id="cb16-102"><a href="#cb16-102" aria-hidden="true" tabindex="-1"></a>  </span>
+<span id="cb16-103"><a href="#cb16-103" aria-hidden="true" tabindex="-1"></a>  <span class="fu">annotate</span>(<span class="at">geom =</span> <span class="st">"segment"</span>,</span>
+<span id="cb16-104"><a href="#cb16-104" aria-hidden="true" tabindex="-1"></a>           <span class="at">x =</span> <span class="fu">as.Date</span>(<span class="st">"2020-10-05"</span>), </span>
+<span id="cb16-105"><a href="#cb16-105" aria-hidden="true" tabindex="-1"></a>           <span class="at">y =</span> <span class="dv">50000000000</span>, </span>
+<span id="cb16-106"><a href="#cb16-106" aria-hidden="true" tabindex="-1"></a>           <span class="at">xend =</span> <span class="fu">as.Date</span>(<span class="st">"2021-02-01"</span>),  </span>
+<span id="cb16-107"><a href="#cb16-107" aria-hidden="true" tabindex="-1"></a>           <span class="at">yend =</span> <span class="dv">45000000000</span>,  </span>
+<span id="cb16-108"><a href="#cb16-108" aria-hidden="true" tabindex="-1"></a>           <span class="at">color =</span> <span class="st">"grey40"</span>,</span>
+<span id="cb16-109"><a href="#cb16-109" aria-hidden="true" tabindex="-1"></a>           <span class="at">arrow =</span> <span class="fu">arrow</span>(<span class="at">type =</span> <span class="st">"closed"</span>,</span>
+<span id="cb16-110"><a href="#cb16-110" aria-hidden="true" tabindex="-1"></a>                         <span class="at">length =</span> <span class="fu">unit</span>(<span class="fl">0.15</span>, <span class="st">"inches"</span>))</span>
+<span id="cb16-111"><a href="#cb16-111" aria-hidden="true" tabindex="-1"></a>           ) <span class="sc">+</span></span>
+<span id="cb16-112"><a href="#cb16-112" aria-hidden="true" tabindex="-1"></a>  </span>
+<span id="cb16-113"><a href="#cb16-113" aria-hidden="true" tabindex="-1"></a>  <span class="fu">annotate</span>(<span class="at">geom =</span> <span class="st">"label"</span>,</span>
+<span id="cb16-114"><a href="#cb16-114" aria-hidden="true" tabindex="-1"></a>           <span class="at">x =</span> <span class="fu">as.Date</span>(<span class="st">"2022-01-01"</span>),</span>
+<span id="cb16-115"><a href="#cb16-115" aria-hidden="true" tabindex="-1"></a>           <span class="at">y =</span> <span class="dv">38000000000</span>,</span>
+<span id="cb16-116"><a href="#cb16-116" aria-hidden="true" tabindex="-1"></a>           <span class="at">label =</span> <span class="st">"Start of Russia-Ukraine War"</span>,</span>
+<span id="cb16-117"><a href="#cb16-117" aria-hidden="true" tabindex="-1"></a>           <span class="at">hjust =</span> <span class="st">"left"</span>,</span>
+<span id="cb16-118"><a href="#cb16-118" aria-hidden="true" tabindex="-1"></a>           <span class="at">color =</span> <span class="st">"black"</span></span>
+<span id="cb16-119"><a href="#cb16-119" aria-hidden="true" tabindex="-1"></a>           ) <span class="sc">+</span></span>
+<span id="cb16-120"><a href="#cb16-120" aria-hidden="true" tabindex="-1"></a>  </span>
+<span id="cb16-121"><a href="#cb16-121" aria-hidden="true" tabindex="-1"></a>  <span class="fu">annotate</span>(<span class="at">geom =</span> <span class="st">"segment"</span>,</span>
+<span id="cb16-122"><a href="#cb16-122" aria-hidden="true" tabindex="-1"></a>           <span class="at">x =</span> <span class="fu">as.Date</span>(<span class="st">"2022-04-01"</span>), </span>
+<span id="cb16-123"><a href="#cb16-123" aria-hidden="true" tabindex="-1"></a>           <span class="at">y =</span> <span class="dv">38500000000</span>, </span>
+<span id="cb16-124"><a href="#cb16-124" aria-hidden="true" tabindex="-1"></a>           <span class="at">xend =</span> <span class="fu">as.Date</span>(<span class="st">"2022-02-01"</span>),  </span>
+<span id="cb16-125"><a href="#cb16-125" aria-hidden="true" tabindex="-1"></a>           <span class="at">yend =</span> <span class="dv">43000000000</span>,  </span>
+<span id="cb16-126"><a href="#cb16-126" aria-hidden="true" tabindex="-1"></a>           <span class="at">color =</span> <span class="st">"grey40"</span>,</span>
+<span id="cb16-127"><a href="#cb16-127" aria-hidden="true" tabindex="-1"></a>           <span class="at">arrow =</span> <span class="fu">arrow</span>(<span class="at">type =</span> <span class="st">"closed"</span>,</span>
+<span id="cb16-128"><a href="#cb16-128" aria-hidden="true" tabindex="-1"></a>                         <span class="at">length =</span> <span class="fu">unit</span>(<span class="fl">0.15</span>, <span class="st">"inches"</span>))</span>
+<span id="cb16-129"><a href="#cb16-129" aria-hidden="true" tabindex="-1"></a>           ) <span class="sc">+</span></span>
+<span id="cb16-130"><a href="#cb16-130" aria-hidden="true" tabindex="-1"></a>  </span>
+<span id="cb16-131"><a href="#cb16-131" aria-hidden="true" tabindex="-1"></a>  <span class="fu">annotate</span>(<span class="at">geom =</span> <span class="st">"label"</span>,</span>
+<span id="cb16-132"><a href="#cb16-132" aria-hidden="true" tabindex="-1"></a>           <span class="at">x =</span> <span class="fu">as.Date</span>(<span class="st">"2022-05-01"</span>),</span>
+<span id="cb16-133"><a href="#cb16-133" aria-hidden="true" tabindex="-1"></a>           <span class="at">y =</span> <span class="dv">45000000000</span>,</span>
+<span id="cb16-134"><a href="#cb16-134" aria-hidden="true" tabindex="-1"></a>           <span class="at">label =</span> <span class="st">"Recession headwinds</span><span class="sc">\n</span><span class="st">results in trade slumps"</span>,</span>
+<span id="cb16-135"><a href="#cb16-135" aria-hidden="true" tabindex="-1"></a>           <span class="at">hjust =</span> <span class="st">"left"</span>,</span>
+<span id="cb16-136"><a href="#cb16-136" aria-hidden="true" tabindex="-1"></a>           <span class="at">color =</span> <span class="st">"black"</span></span>
+<span id="cb16-137"><a href="#cb16-137" aria-hidden="true" tabindex="-1"></a>           ) <span class="sc">+</span></span>
+<span id="cb16-138"><a href="#cb16-138" aria-hidden="true" tabindex="-1"></a>  </span>
+<span id="cb16-139"><a href="#cb16-139" aria-hidden="true" tabindex="-1"></a>  <span class="fu">annotate</span>(<span class="at">geom =</span> <span class="st">"segment"</span>,</span>
+<span id="cb16-140"><a href="#cb16-140" aria-hidden="true" tabindex="-1"></a>           <span class="at">x =</span> <span class="fu">as.Date</span>(<span class="st">"2022-09-01"</span>), </span>
+<span id="cb16-141"><a href="#cb16-141" aria-hidden="true" tabindex="-1"></a>           <span class="at">y =</span> <span class="dv">46000000000</span>, </span>
+<span id="cb16-142"><a href="#cb16-142" aria-hidden="true" tabindex="-1"></a>           <span class="at">xend =</span> <span class="fu">as.Date</span>(<span class="st">"2022-07-01"</span>),  </span>
+<span id="cb16-143"><a href="#cb16-143" aria-hidden="true" tabindex="-1"></a>           <span class="at">yend =</span> <span class="dv">58000000000</span>,  </span>
+<span id="cb16-144"><a href="#cb16-144" aria-hidden="true" tabindex="-1"></a>           <span class="at">color =</span> <span class="st">"grey40"</span>,</span>
+<span id="cb16-145"><a href="#cb16-145" aria-hidden="true" tabindex="-1"></a>           <span class="at">arrow =</span> <span class="fu">arrow</span>(<span class="at">type =</span> <span class="st">"closed"</span>,</span>
+<span id="cb16-146"><a href="#cb16-146" aria-hidden="true" tabindex="-1"></a>                         <span class="at">length =</span> <span class="fu">unit</span>(<span class="fl">0.15</span>, <span class="st">"inches"</span>))</span>
+<span id="cb16-147"><a href="#cb16-147" aria-hidden="true" tabindex="-1"></a>           ) <span class="sc">+</span></span>
+<span id="cb16-148"><a href="#cb16-148" aria-hidden="true" tabindex="-1"></a>  </span>
+<span id="cb16-149"><a href="#cb16-149" aria-hidden="true" tabindex="-1"></a>  </span>
+<span id="cb16-150"><a href="#cb16-150" aria-hidden="true" tabindex="-1"></a>  <span class="fu">labs</span>(<span class="at">title =</span> <span class="st">"Since early 2021, Singapore's merchandise trade was recovering from Covid-19</span><span class="sc">\n</span><span class="st">but slowed down in mid-2022"</span>,</span>
+<span id="cb16-151"><a href="#cb16-151" aria-hidden="true" tabindex="-1"></a>         <span class="at">subtitle =</span> <span class="st">"Total Merchandise Export and Import Trade Value of Singapore (in SGD), 2020-2022"</span>,</span>
+<span id="cb16-152"><a href="#cb16-152" aria-hidden="true" tabindex="-1"></a>         <span class="at">caption =</span> <span class="st">"Merchandise Trade by Region/Market from Department of Statistics, Singapore"</span>) </span></code><button title="Copy to Clipboard" class="code-copy-button"><i class="bi"></i></button></pre></div>
 </details>
 <div class="cell-output-display">
 <p><img src="Take-home_Ex04_files/figure-html/Overall Singapore Trade Balance-1.png" class="img-fluid" width="960"></p>
@@ -1655,7 +1705,7 @@ code span.wa { color: #60a0b0; font-weight: bold; font-style: italic; } /* Warni
 <span id="cb19-9"><a href="#cb19-9" aria-hidden="true" tabindex="-1"></a>  <span class="fu">scale_fill_hcl</span>(<span class="at">palette =</span> <span class="st">'RdBu'</span>) <span class="sc">+</span></span>
 <span id="cb19-10"><a href="#cb19-10" aria-hidden="true" tabindex="-1"></a>  <span class="fu">facet_grid</span>(Countries<span class="sc">~</span>.) <span class="sc">+</span></span>
 <span id="cb19-11"><a href="#cb19-11" aria-hidden="true" tabindex="-1"></a>  <span class="fu">theme_few</span>() <span class="sc">+</span></span>
-<span id="cb19-12"><a href="#cb19-12" aria-hidden="true" tabindex="-1"></a>  </span>
+<span id="cb19-12"><a href="#cb19-12" aria-hidden="true" tabindex="-1"></a></span>
 <span id="cb19-13"><a href="#cb19-13" aria-hidden="true" tabindex="-1"></a>  <span class="fu">theme</span>(</span>
 <span id="cb19-14"><a href="#cb19-14" aria-hidden="true" tabindex="-1"></a>    <span class="at">panel.spacing.y=</span><span class="fu">unit</span>(<span class="dv">0</span>, <span class="st">"lines"</span>),</span>
 <span id="cb19-15"><a href="#cb19-15" aria-hidden="true" tabindex="-1"></a>    <span class="at">axis.title.x =</span> <span class="fu">element_blank</span>(),</span>
@@ -1680,7 +1730,7 @@ code span.wa { color: #60a0b0; font-weight: bold; font-style: italic; } /* Warni
 </div>
 <p>Observation Select countries to choose</p>
 <p>Major partners (Top 5) - China (trend reversal) - Malaysia (all the way deficit) - USA (positive to negative)</p>
-<p>Other Regional Partners (Interesting patterns) - Korea (positive to negative) - Japan (positive to negative) - India (dip around Jul) - Philippines (gain strongly towards end 2022) - New Zealand/Bangladesh (gain strongly towards end 2022) - Cambodia (negative to positive)</p>
+<p>Other Regional Partners (Interesting patterns) - Korea (positive to negative) - Japan (positive to negative) - India (dip around covid years) - Philippines (gain strongly towards end 2022) - New Zealand/Bangladesh (gain strongly towards end 2022) - Cambodia (negative to positive) - UAE</p>
 <p>Other Major European Partners - Germany - France - UK</p>
 <p>Others are due to - mid-range - one intensity</p>
 
